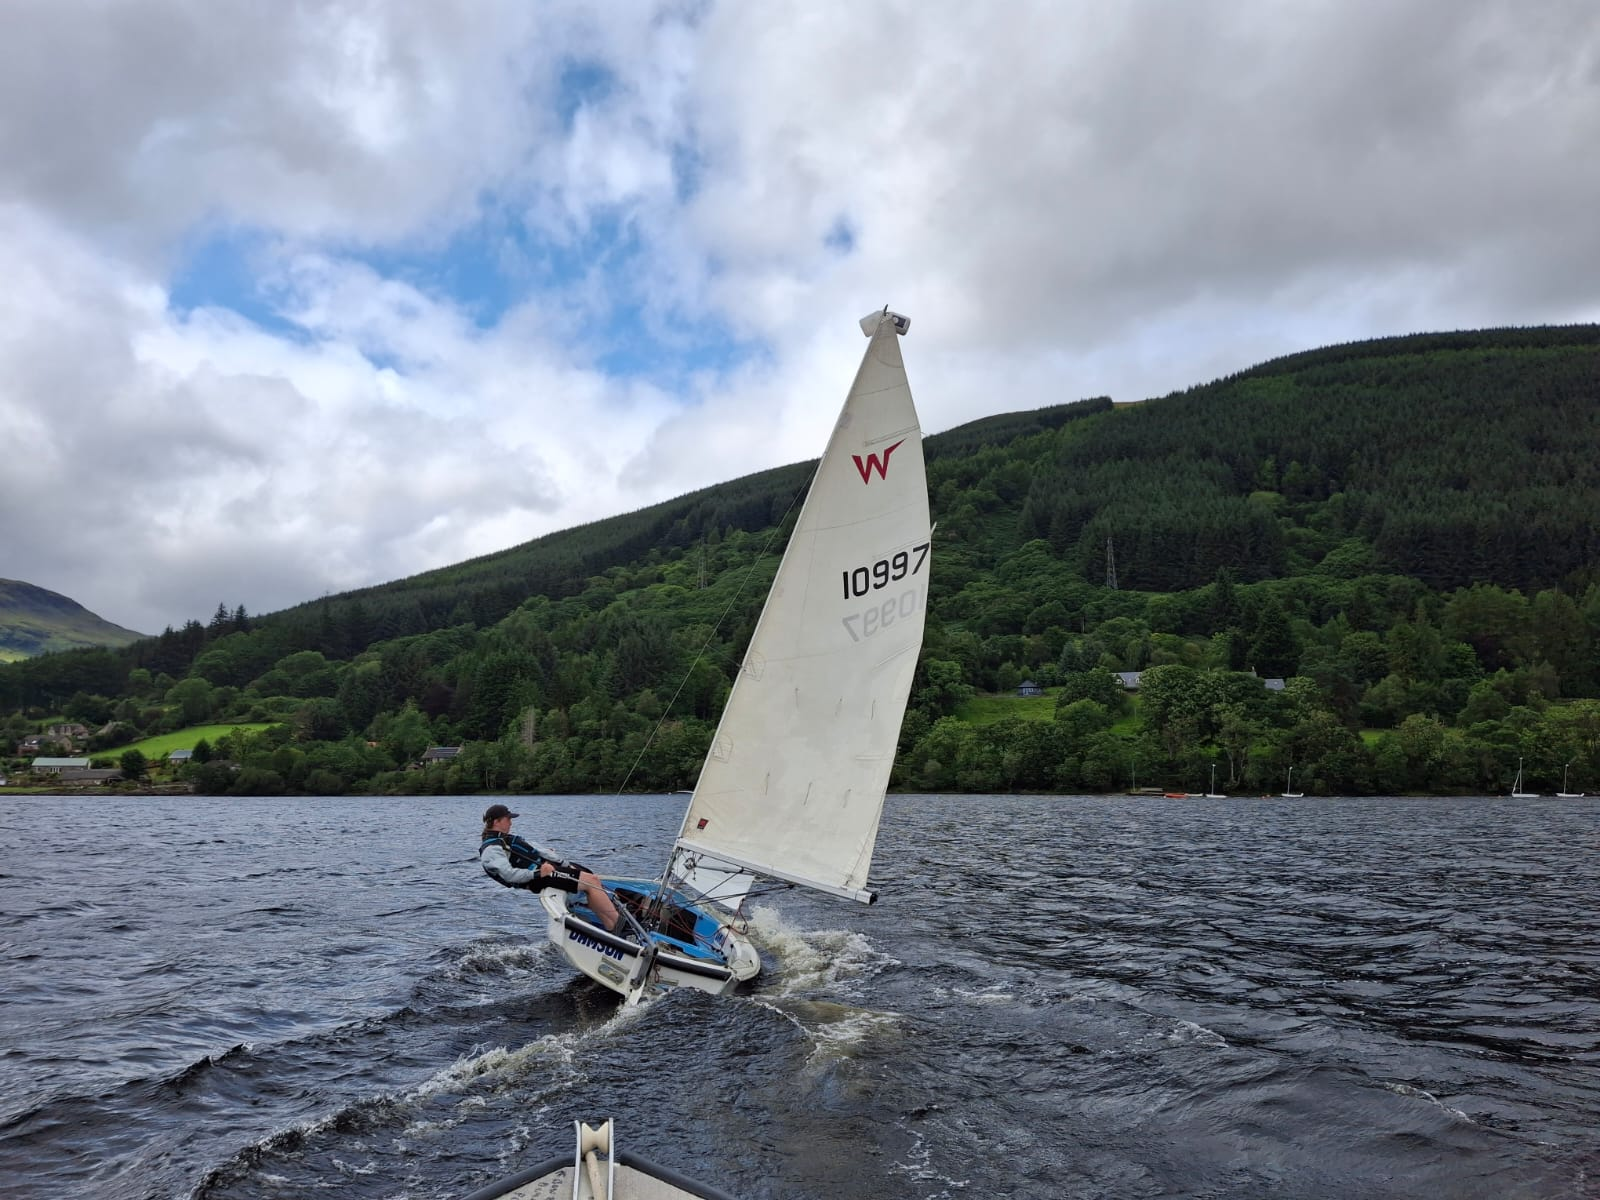
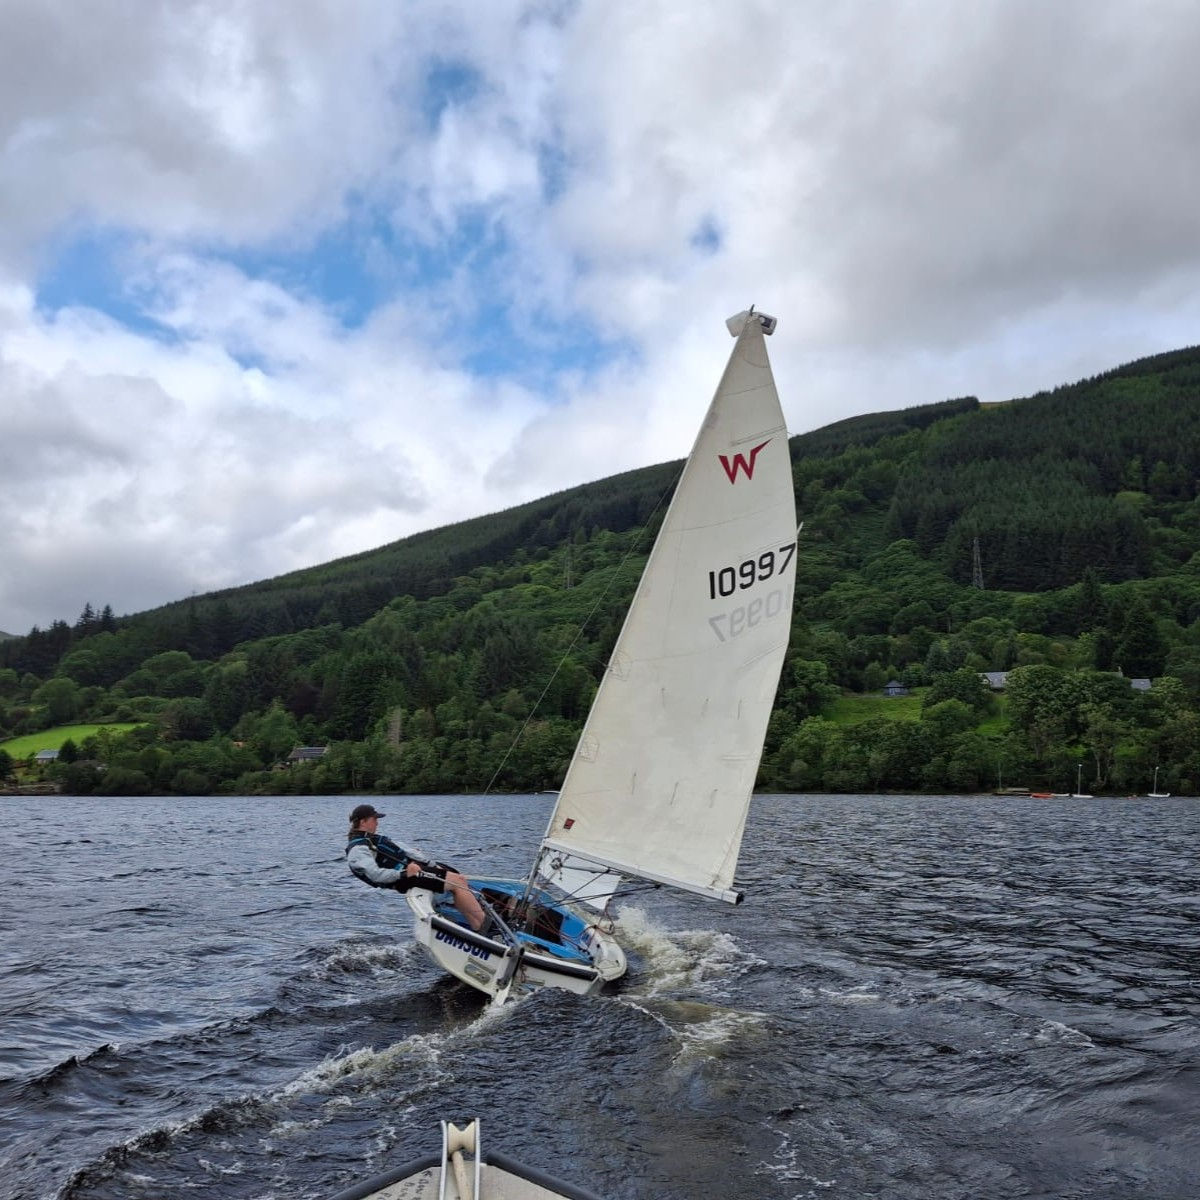
Refactor code structure for improved readability and maintainability

diff --git a/Games/FamilyFramed/game.js b/Games/FamilyFramed/game.js
@@ -97,7 +97,6 @@ async function ensureUserProgress(uid) {
             dailyLevelDate: "",
             dailyLevelId: "",
             lastDateComplete: "",
-            todaysMaxPicNum: 1,
             todaysGuesses: []
         };
         await setDoc(ref, initialData);
@@ -197,7 +196,6 @@ function submitGuess() {
         } else {
             currentMaxPicNum ++;
             currentPicNum = currentMaxPicNum;
-            updateTodaysMaxPicNum();
             addPreviousGuess();
             addGuessToTodaysGuesses("");
             renderPicture();
@@ -214,7 +212,6 @@ function submitGuess() {
             } else {
                 currentMaxPicNum++;
                 currentPicNum = currentMaxPicNum;
-                updateTodaysMaxPicNum();
                 addPreviousGuess(guess);
                 addGuessToTodaysGuesses(guess);
                 renderPicture();
@@ -227,13 +224,6 @@ async function addGuessToTodaysGuesses(guess) {
     const ref = userDoc(currentUser.uid);
     await updateDoc(ref, {
         todaysGuesses: arrayUnion(guess)
-    });
-}
-
-async function updateTodaysMaxPicNum() {
-    const ref = userDoc(currentUser.uid);
-    await updateDoc(ref, {
-        todaysMaxPicNum: currentMaxPicNum
     });
 }
 
@@ -253,7 +243,6 @@ async function loadTodaysLevel() {
         await updateDoc(ref, {
             dailyLevelDate: today,
             dailyLevelId: todaysLevel,
-            todaysMaxPicNum: 1,
             todaysGuesses: []
         });
     }
@@ -380,10 +369,11 @@ async function init() {
         await loadTodaysLevel();
         // Get current max pic num
         if (snap.exists()) {
-            currentMaxPicNum = snap.data().todaysMaxPicNum;
+            const guesses = snap.data().todaysGuesses;
+            currentMaxPicNum = guesses.length+1;
             currentPicNum = currentMaxPicNum;
             renderPicture();
-            snap.data().todaysGuesses.forEach(guess => {
+            guesses.forEach(guess => {
                 if (guess === "") {
                     addPreviousGuess();
                 } else {

diff --git a/AboutMe/aboutMe.html b/AboutMe/aboutMe.html
@@ -46,6 +46,9 @@
                     <div class="slide">
                         <img src="Images/kayaking.jpg" alt="Marcus Collins">
                     </div>
+                    <div class="slide">
+                        <img src="Images/quadbiking.jpg" alt="Marcus Collins">
+                    </div>
                 </div>
             </div>
         </div>
